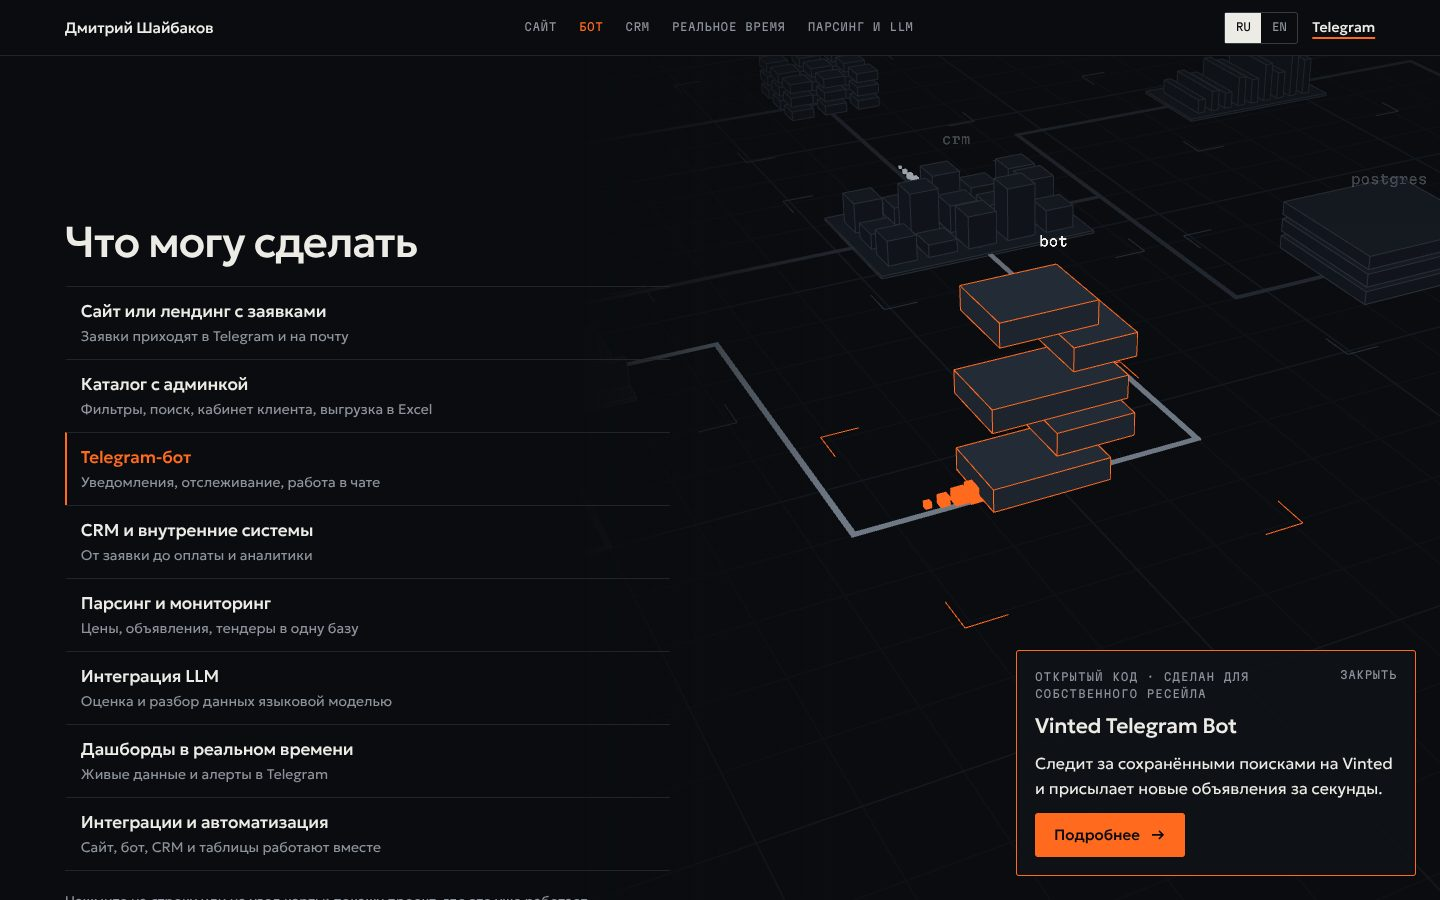
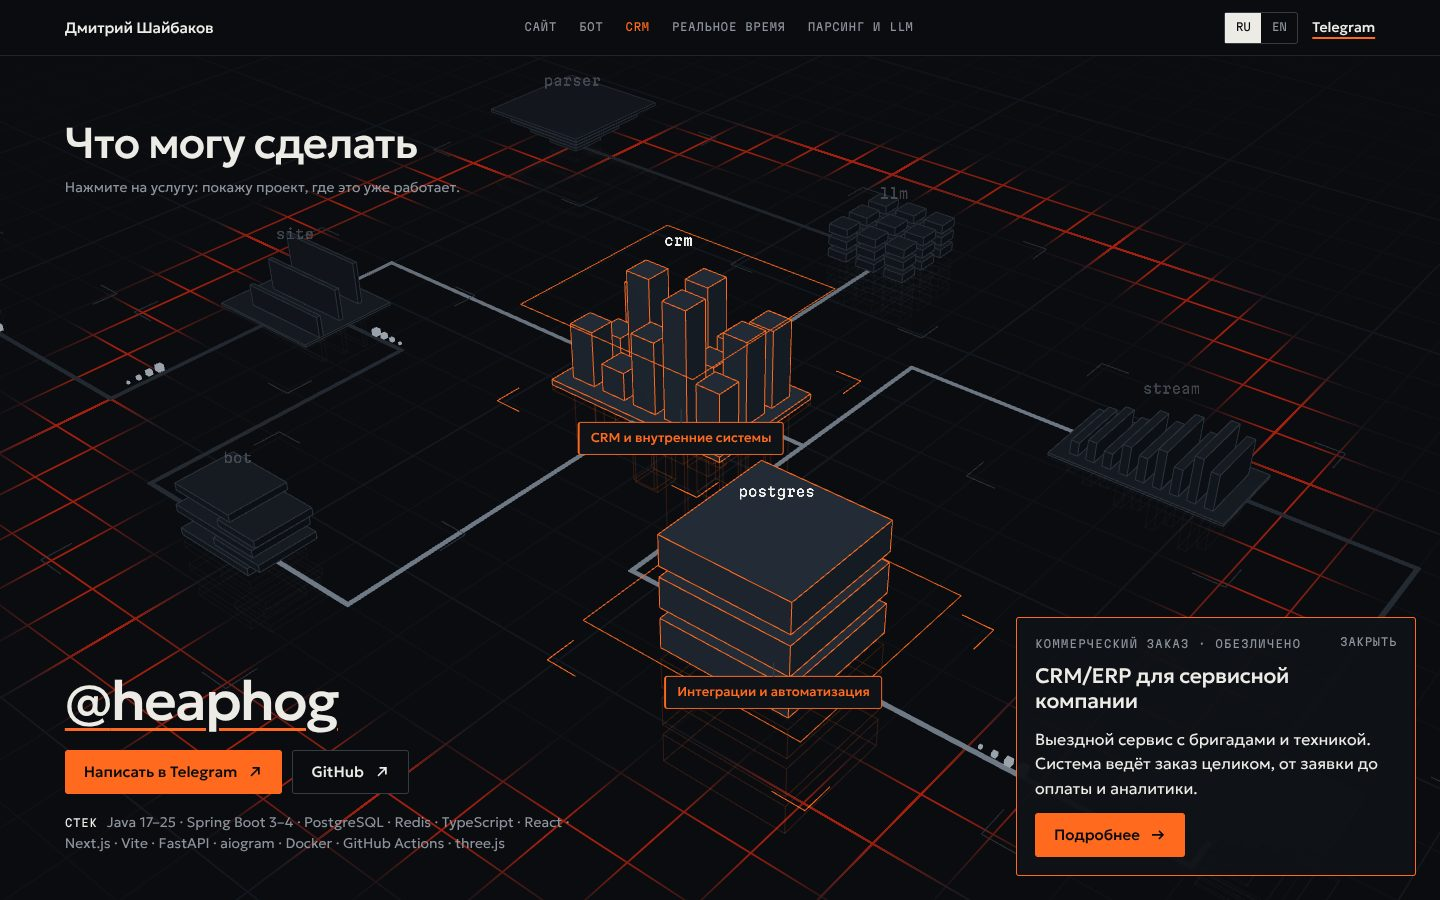
Подписи только у выбранного узла, отступы первого экрана на телефоне, README и BRIEF под новую композицию

diff --git a/src/styles/main.css b/src/styles/main.css
@@ -1032,6 +1032,10 @@ label > .mono {
   display: none;
 }
 
+.hero__aside > * + * {
+  margin-top: 20px;
+}
+
 /* ───────── Услуги ───────── */
 .offer {
   border-bottom: 1px solid var(--line);
@@ -1247,6 +1251,10 @@ label > .mono {
     letter-spacing: -0.035em;
   }
 
+  .hero__aside > * + * {
+    margin-top: 0;
+  }
+
   .hero__aside {
     display: grid;
     gap: 20px;
@@ -1323,6 +1331,16 @@ label > .mono {
     white-space: nowrap;
     translate: -50% 0;
     opacity: var(--explore, 0);
+  }
+
+  /* выбран проект: остаётся подпись только его узлов */
+  .hotspots[data-selected] .hotspot:not([aria-pressed='true']) .hotspot__tag {
+    opacity: 0;
+  }
+
+  /* блок с картой встаёт ровно в экран, без отступа под шапку */
+  #offer {
+    scroll-margin-top: calc(-1 * (var(--topbar) + 16px));
   }
 
   .hotspot__tag::before {

diff --git a/src/stage/Hotspots.tsx b/src/stage/Hotspots.tsx
@@ -25,7 +25,7 @@ export function Hotspots() {
   }
 
   return (
-    <div className="hotspots" data-tags={route === null || undefined}>
+    <div className="hotspots" data-tags={route === null || undefined} data-selected={(route === null && current !== null) || undefined}>
       {NODE_IDS.map((id) => (
         <button
           key={id}

diff --git a/BRIEF.md b/BRIEF.md
@@ -16,9 +16,16 @@
 
 ## Концепт
 
-Сайт устроен как работающая система. На главной два блока: короткое вступление и интерактивная трёхмерная карта из девяти узлов (client, site, bot, crm, postgres, stream, queue, parser, llm), соединённых связями под прямыми углами. Рядом с картой список услуг.
+Сайт устроен как работающая система. Трёхмерная карта из девяти узлов (client, site, bot, crm, postgres, stream, queue, parser, llm) занимает весь экран, текст стоит по краям и на самой карте, а не колонкой слева.
 
-Посетитель сам выбирает, что смотреть. Клик по узлу карты или по строке услуги: камера подлетает к узлу, узел поднимается и подсвечивается, появляется карточка проекта с одной фразой и кнопкой «Подробнее». Кнопка ведёт на страницу проекта с полным разбором, схемой и демо. Действия посетителя бегут по связям карты оранжевыми пакетами, клик по пустому месту карты рассылает ping. Журнала событий и длинных глав на главной нет.
+- Первый экран: карта в центре, крупный заголовок внизу слева, пояснение и кнопки внизу справа.
+- Второй экран: камера опускается к карте, у каждого узла проявляется подпись с услугой. Заголовок блока и контакты стоят по углам.
+- Клик по узлу или подписи: камера подлетает, узел поднимается и подсвечивается, появляется карточка проекта с одной фразой и кнопкой «Подробнее».
+- Страница проекта: полный разбор, схема и демо справа, карта с узлом проекта слева.
+
+Карта живая: узлы собираются при загрузке, камера медленно поворачивается, по связям идут пакеты, узлы отражаются в «полу», по выбранному узлу ходит сканирующая рамка, от клика и от пришедшего пакета по сетке расходится волна, сетка под курсором ярче. Действия посетителя бегут по связям оранжевыми пакетами.
+
+На телефоне и без WebGL услуги идут обычным списком под картой.
 
 ## Страницы
 
@@ -45,6 +52,7 @@
 6. Интеграция LLM → TenderRadar.
 7. Дашборды в реальном времени → Pulse.
 8. Интеграции и автоматизация → CRM/ERP.
+9. Очереди и фоновые задачи → distributed-task-engine.
 
 Услуги без подтверждающего проекта (приём оплаты, запись клиентов, интеграции с готовыми CRM, маркетплейсы) на сайт не добавлять, пока такого проекта нет.
 
@@ -108,10 +116,10 @@ https://github.com/addictcode/vinted-telegram-bot
 
 - Образ: инженерный пульт. Почти чёрный фон, светлый текст, тонкие линии, один акцентный цвет (оранжевый). Гротеск для текста, моноширинный шрифт для меток и журнала.
 - Минимум текста: на главной заголовок, одна фраза и список услуг в две строки на пункт. Всё остальное на страницах проектов.
-- Текст стоит колонкой слева на спокойном фоне; на телефоне идёт под окном с картой, на сплошном фоне.
+- Текст стоит по краям экрана и подписями на карте; длинный текст страниц проектов — колонкой справа на спокойном фоне. На телефоне текст идёт под окном с картой, на сплошном фоне.
 - Запрещено: фиолетовые градиенты, glassmorphism, свечение, эмодзи вместо иконок, карточки-близнецы в три колонки, «звёздное небо» из частиц.
 - Шрифты обязаны поддерживать кириллицу.
-- 3D: геометрия процедурная, без тяжёлых моделей. Курсор слегка поворачивает камеру.
+- 3D: геометрия процедурная, без тяжёлых моделей. Курсор слегка поворачивает камеру и подсвечивает сетку.
 - Камера идёт за выбором посетителя и за скроллом главной. Сами по себе по карте идут только редкие серые пакеты (heartbeat); оранжевые пакеты — это действия посетителя.
 
 ## Техника
@@ -119,7 +127,7 @@ https://github.com/addictcode/vinted-telegram-bot
 - Vite + React + TypeScript, статическая сборка.
 - `three` через `@react-three/fiber`. Скролл читается своим обработчиком, без библиотек анимации.
 - Страницы проектов на hash-адресах (`/#/site`): работают на бесплатном GitHub Pages без серверных правил.
-- Узлы карты нажимаются мышью, пальцем и с клавиатуры: поверх каждого лежит невидимая кнопка.
+- Узлы карты нажимаются мышью, пальцем и с клавиатуры: поверх каждого лежит кнопка с подписью услуги.
 - Контент в `src/content/*.ts` (RU и EN), профиль в `src/content/profile.ts`.
 - RU по умолчанию, переключатель RU/EN, выбор запоминается.
 - Canvas грузится лениво. Без WebGL, на слабом устройстве и при `prefers-reduced-motion` — статичная версия: кадр карты для текущей главы и тот же текст. На мобильном DPR ограничен.

diff --git a/README.md b/README.md
@@ -1,6 +1,6 @@
 # Портфолио «Живая система»
 
-Личный сайт Дмитрия Шайбакова. На главной короткое вступление, интерактивная трёхмерная карта системы и список того, что можно заказать. Клик по узлу карты или по строке услуги показывает карточку проекта, полный разбор каждого проекта лежит на отдельной странице. Адрес: https://addictcode.github.io
+Личный сайт Дмитрия Шайбакова. Трёхмерная карта системы занимает весь экран: на первом экране под ней крупный заголовок, ниже услуги подписаны прямо у узлов карты. Клик по узлу показывает карточку проекта, полный разбор каждого проекта лежит на отдельной странице. Адрес: https://addictcode.github.io
 
 Стек: Vite, React, TypeScript, three.js через `@react-three/fiber`.
 
@@ -30,7 +30,7 @@ npm run lint
 | Цвета карты | `src/scene/palette.ts` (совпадают с переменными CSS) |
 | Узлы, связи и ракурсы камеры по главам | `src/system/graph.ts` |
 | Форма узлов | `src/scene/nodeShapes.ts` |
-| Список услуг на главной | `offer` в `ru.ts` / `en.ts`; какой проект открывает строка — `OFFER_CHAPTER` в `src/system/graph.ts` |
+| Список услуг на главной | `offer` в `ru.ts` / `en.ts`; у какого узла подписана услуга — `NODE_OFFERS` в `src/system/graph.ts` |
 | Какой проект открывает узел карты | `NODE_CHAPTER` в `src/system/graph.ts` |
 | Имя и заголовок первого экрана | `hero` в `ru.ts` / `en.ts` |
 
